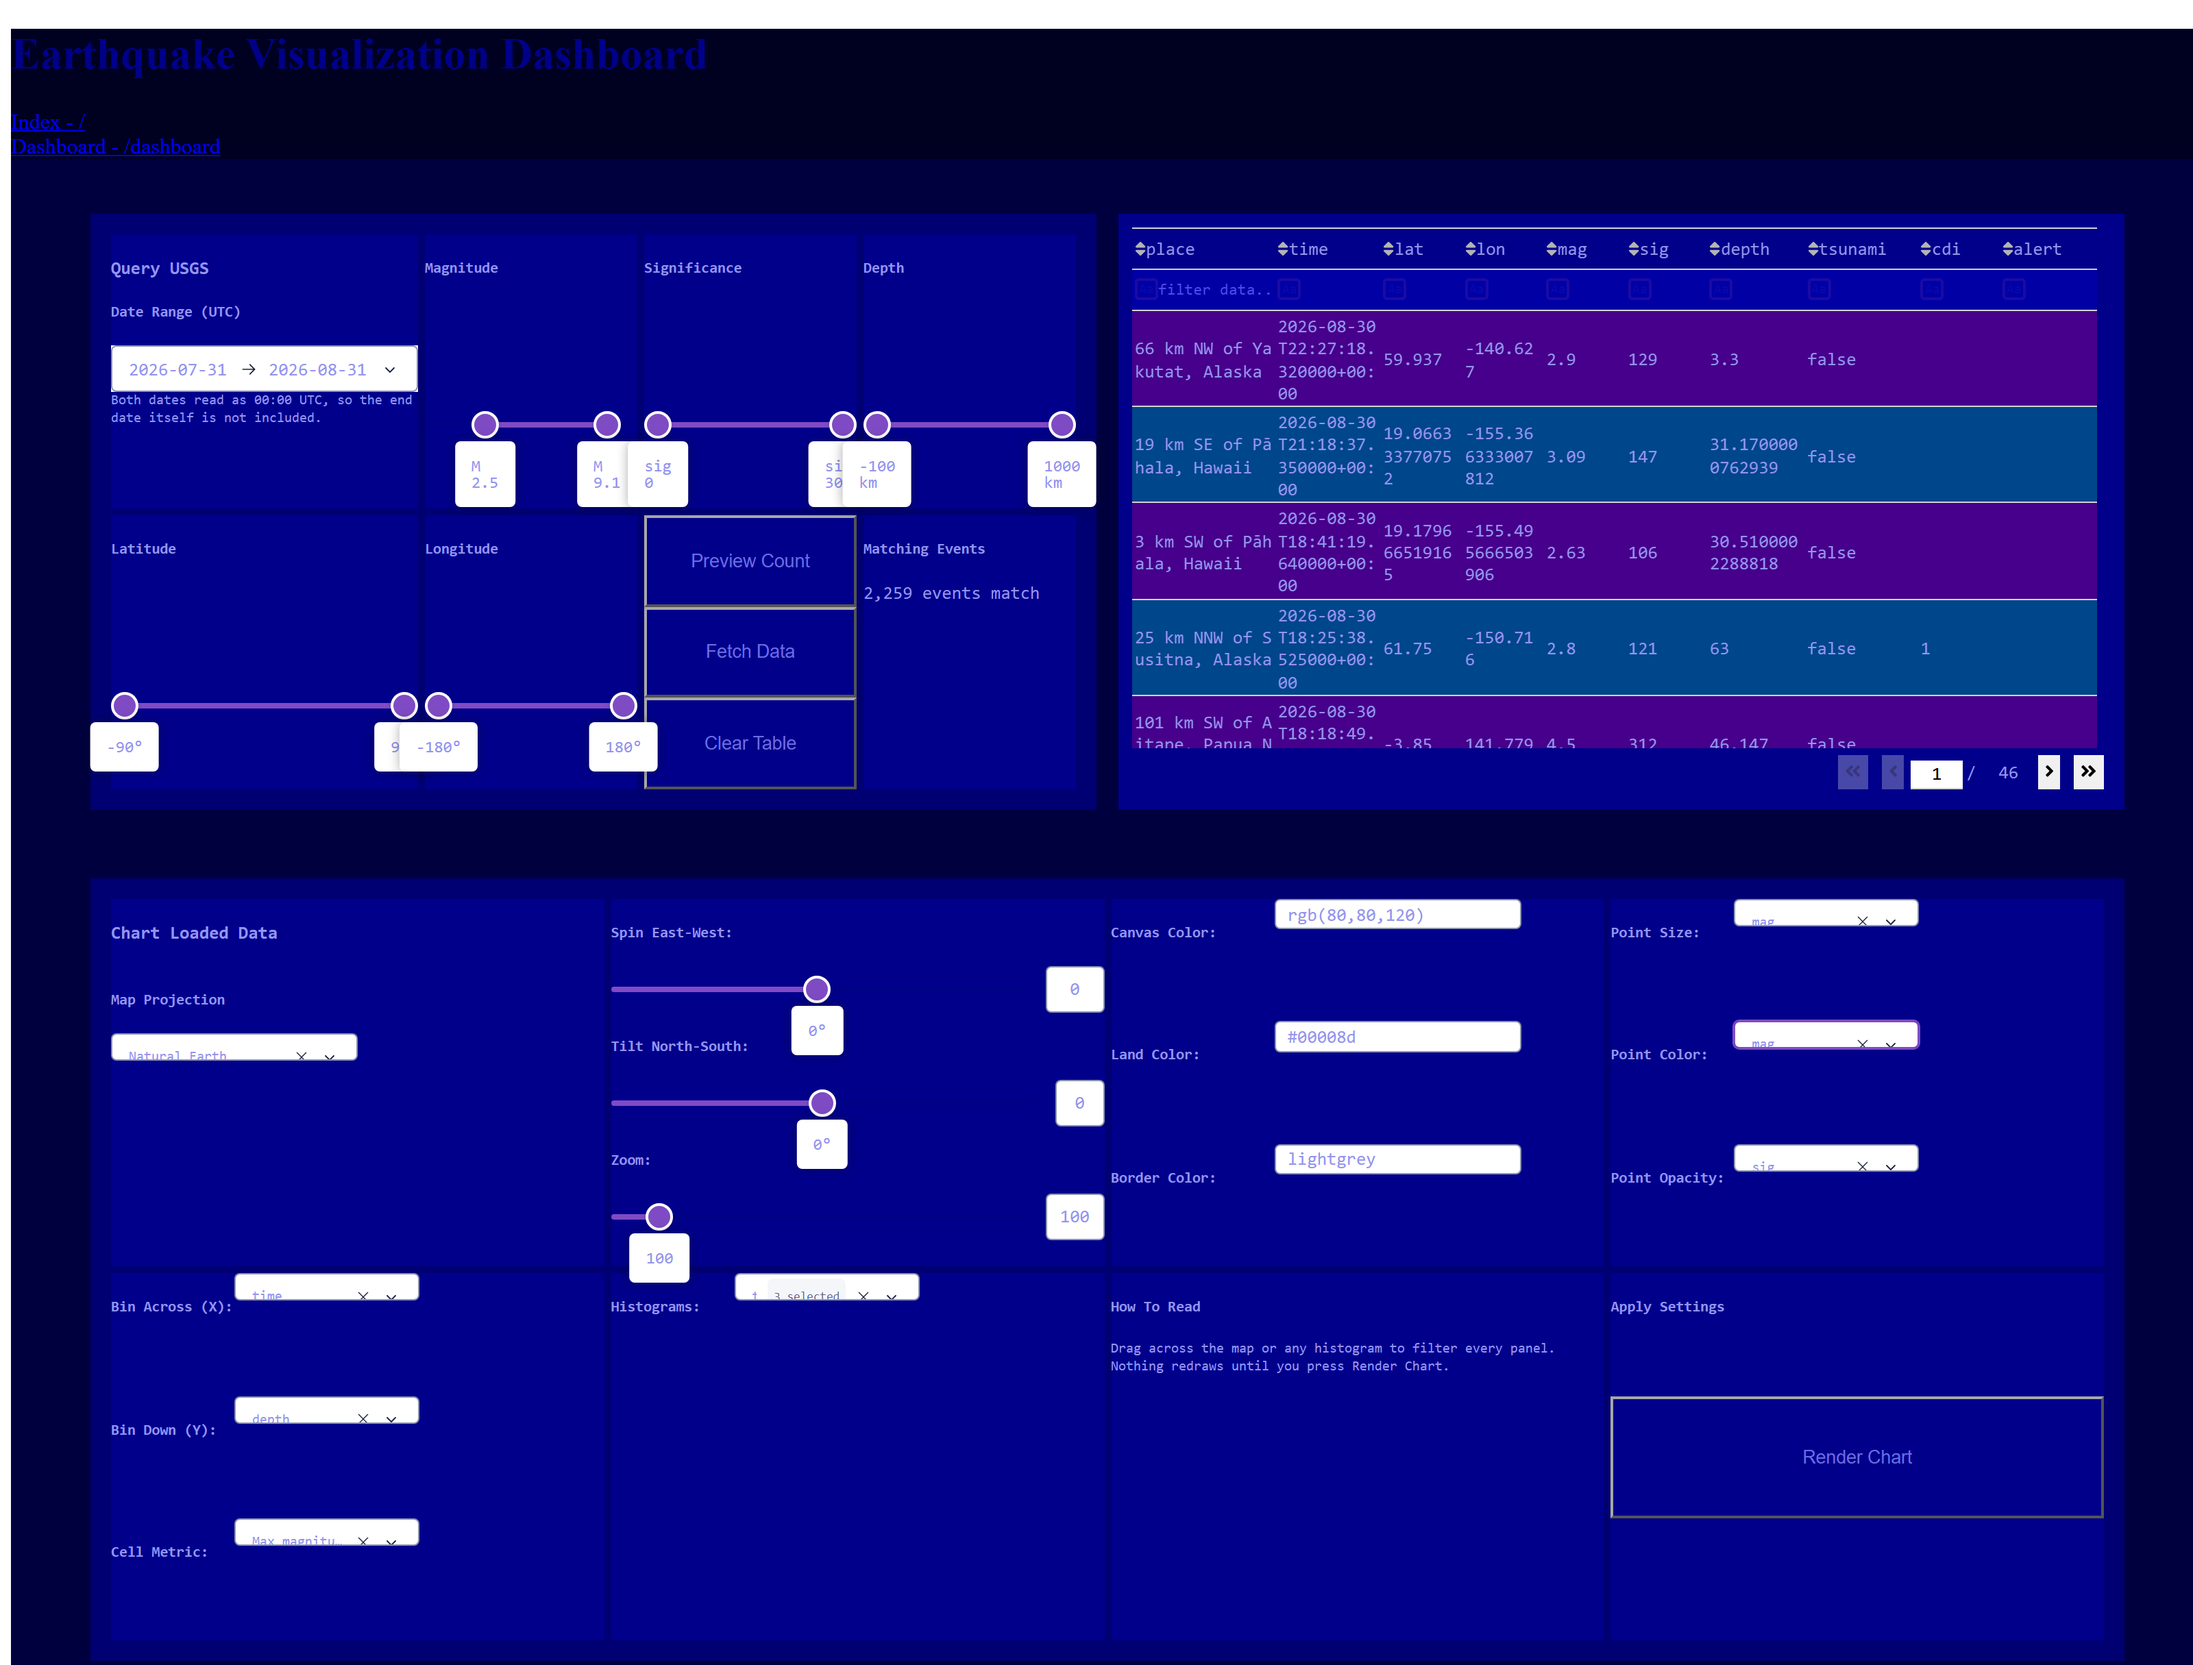
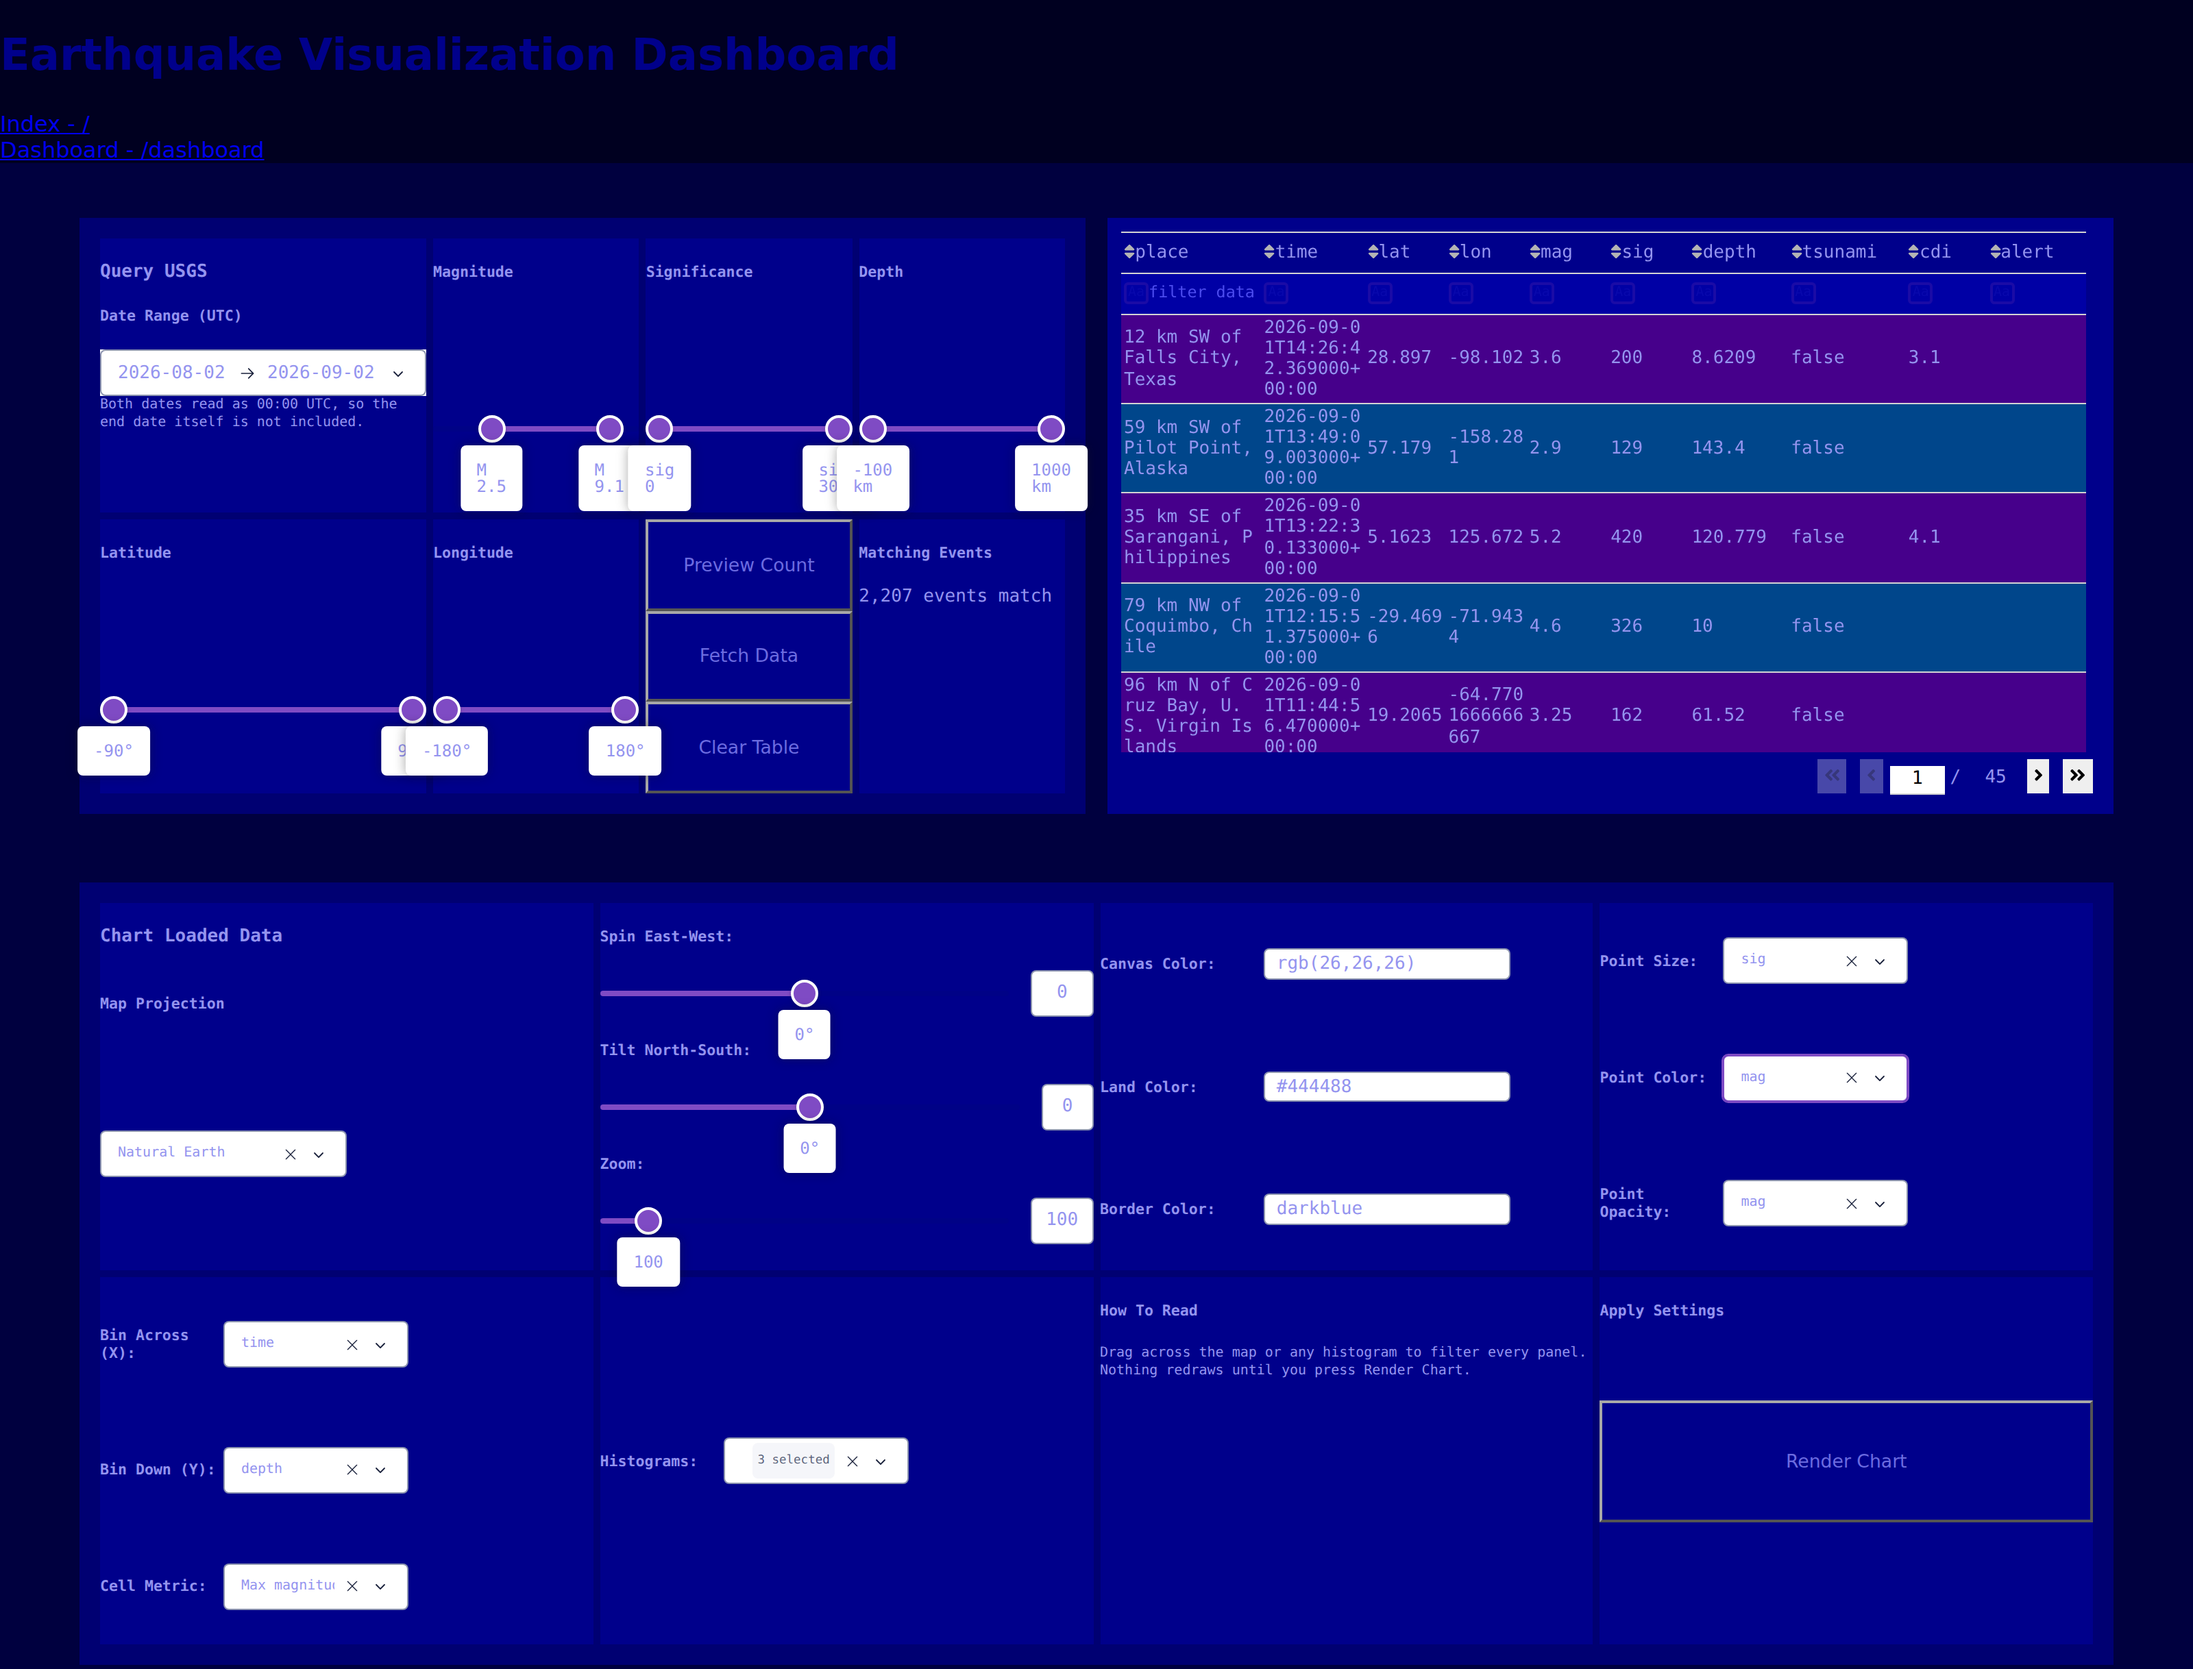
docs: recapture the figures and cover the marimo front-end
Closes #33. Redoes the README half of #27's sibling PR, which was closed
because the Dash screenshot predated the white-border fix and there was no
marimo screenshot at all.

Both Dash figures are recaptured from the current app, so the border is gone
and the counts in the captions match what the figures show. Regenerating them
turned up a real break in the capture script: it only ever walked the magnitude
slider *down*, so when the shipped default floor moved to 2.0 the walk to 2.5
computed a negative number of key presses, clamped to zero, and then failed its
own guard. It now walks in whichever direction the target lies. It also closes
the aesthetics dropdown before shooting, which was left hanging open over the
data table.

The marimo figure needs its own script. That app has to be clicked through
rather than waited on -- nothing draws until Fetch data and Render chart are
pressed -- and its widgets live in shadow roots, so every query has to descend
into them. The CDP client the two scripts share moved to docs/cdp.mjs rather
than being copied.

The README gains an Alternate front-ends section with the three pixi tasks, the
marimo screenshot, the molab badge, and what actually differs between marimo and
Dash; project-structure rows for apps/ and the new scripts; and the zero-width
time bin (#29) under Known limitations.

The badge only leads somewhere that works once #36 lands -- the notebook cannot
resolve the package from molab until then.
[…]

diff --git a/README.md b/README.md
@@ -13,7 +13,7 @@ Vega-Lite selections, so a brush drawn in any one of them filters all the others
 
 **[Try the live dashboard](https://0be82526-8d32-4767-bbed-2b63946ff944.plotly.app/dashboard)** — hosted on Plotly Cloud, querying the USGS catalog in real time.
 
-![Linked views over 2,251 M2.5+ earthquakes from the past 30 days: a world map colored by magnitude tracing the Pacific Ring of Fire, brushable time, magnitude and depth histograms, and a time-depth heatmap](docs/figures/dashboard.png)
+![Linked views over 2,207 M2.5+ earthquakes from the past 30 days: a world map colored by magnitude tracing the Pacific Ring of Fire, brushable time, magnitude and depth histograms, and a time-depth heatmap](docs/figures/dashboard.png)
 
 ## Features
 
@@ -32,7 +32,7 @@ Vega-Lite selections, so a brush drawn in any one of them filters all the others
   yearly, monthly, and daily tick formats based on the span of the loaded data, so a
   one-month query doesn't render every tick as the same month.
 
-![The data loader and visualizer control panels, with 2,251 records loaded into the sortable data table](docs/figures/app-ui.png)
+![The data loader and visualizer control panels, with 2,207 records loaded into the sortable data table](docs/figures/app-ui.png)
 
 ## Quick start
 
@@ -74,6 +74,35 @@ Open <http://127.0.0.1:8050>. The landing page carries a quick-start guide; clic
 **Clear Table** empties the table and resets the count. Set `DASH_DEBUG=1` to start the app
 with Dash's debug tooling enabled.
 
+## Alternate front-ends
+
+The same `DataLoader` and `DataVisualizer` drive two other apps under `apps/`, so the
+chart is identical in all three and only the widget layer differs:
+
+```bash
+pixi run -e alt marimo-app      # marimo notebook, read-only app mode
+pixi run -e alt marimo-edit     # the same notebook, editable
+pixi run -e alt panel-app       # Panel
+```
+
+[![Open in molab](https://marimo.io/molab-shield.svg)](https://molab.marimo.io/github/chernobylx/Earthquake-Visualization-Dashboard/blob/main/apps/marimo_app.py)
+
+The marimo notebook also runs in the cloud with no checkout: the badge opens it in
+[molab](https://molab.marimo.io), which builds its environment from the inline script
+metadata at the top of the file.
+
+![The marimo front-end: the same map, histograms and heatmap under marimo's grid layout, with the loaded frame in a sortable table and the chart controls above it](docs/figures/marimo-app.png)
+
+marimo differs from Dash in two ways worth knowing. Its cells are reactive, so the
+controls take effect without an Apply step — except the fetch and the chart, which stay
+behind **Fetch data** and **Render chart** so a slider drag does not re-query USGS or
+re-encode thousands of rows per frame. And the loaded frame sits in `mo.ui.dataframe`,
+whose filters narrow what the chart sees.
+
+The task names deliberately differ from the `marimo` and `panel` executables: a pixi task
+named `panel` shadows the binary, and extra arguments then get appended to the task's own
+command and silently produce a mangled invocation.
+
 ## The data
 
 Records come from the USGS FDSN event API on demand and are never committed; anything
@@ -111,6 +140,13 @@ cannot act as a data predicate the way the histogram brushes can.
 Cross-filtering itself is unaffected — brushing a histogram does filter both the map and
 the heatmap.
 
+**A query shorter than 12 days gives the heatmap a zero-width time bin.** The bin step is
+sized as `int(n_days / 12)` days, so any window under twelve days floors it to `0`. The
+spec still compiles — Vega-Lite does not error on `"bin": {"step": 0}` — so it fails
+quietly rather than loudly, and the time histogram is sized the same way. The shipped
+30-day default gives a 2-day step, so you only reach it by narrowing the date range
+([#29](https://github.com/chernobylx/Earthquake-Visualization-Dashboard/issues/29)).
+
 ## Architecture
 
 The code is a small installable package under `src/earthquake_dashboard/`, in three
@@ -134,8 +170,11 @@ exercised directly by the test suite, without standing up a server.
 | `src/earthquake_dashboard/assets/` | Stylesheet driving the dashboard's grid layout |
 | `tests/` | pytest suite |
 | `notebooks/` | `eq-dashboard.ipynb`, the self-contained ipywidgets prototype this dashboard grew out of |
+| `apps/` | `marimo_app.py` and `panel_app.py`, alternate front-ends over the same two classes |
+| `apps/layouts/` | `marimo_app.grid.json`, the grid layout marimo reads in app mode — one entry per cell, in source order |
 | `docs/figures/` | Images used in this README |
-| `docs/make_figures.mjs` | Regenerates those images by driving the running app with headless Chrome |
+| `docs/make_figures.mjs` / `docs/make_marimo_figure.mjs` | Regenerate those images by driving the running apps with headless Chrome |
+| `docs/cdp.mjs` | The DevTools Protocol client both figure scripts share |
 | `scripts/bundle_plotly.py` | Flattens the package into a Plotly Cloud upload bundle (`pixi run bundle`) |
 | `pixi.toml` / `pyproject.toml` | Environment, packaging, and tool configuration |
 
@@ -166,12 +205,26 @@ The figures under `docs/figures/` are captured from the real app rather than han
 Start the app, then drive it with headless Chrome:
 
 ```bash
-CHROME="/c/Program Files/Google/Chrome/Application/chrome.exe" node docs/make_figures.mjs
+export CHROME="/c/Program Files/Google/Chrome/Application/chrome.exe"
+pixi run app                      # in one shell
+node docs/make_figures.mjs        # dashboard.png and app-ui.png
 ```
 
 It loads a query, sets the map to colour by magnitude, clicks through Preview Count /
 Render Chart, and writes both PNGs. `MIN_MAG`, `COLOR_VAR`, `BASE`, and `OUTDIR` override the
 defaults. Node 22+ only — no npm install, it uses the built-in WebSocket to speak CDP.
+
+The marimo figure comes from its own script, because that app has to be clicked through
+rather than waited on, and its widgets live in shadow roots:
+
+```bash
+pixi run -e alt marimo-app        # in one shell
+node docs/make_marimo_figure.mjs  # marimo-app.png
+```
+
+`CHROME` can be any Chrome or Chromium binary. Under WSL, point it at a Linux build
+rather than the Windows one — Windows Chrome's debugging port is not reachable across
+the WSL network boundary, so the script cannot attach to it.
 
 ## Deployment
 
